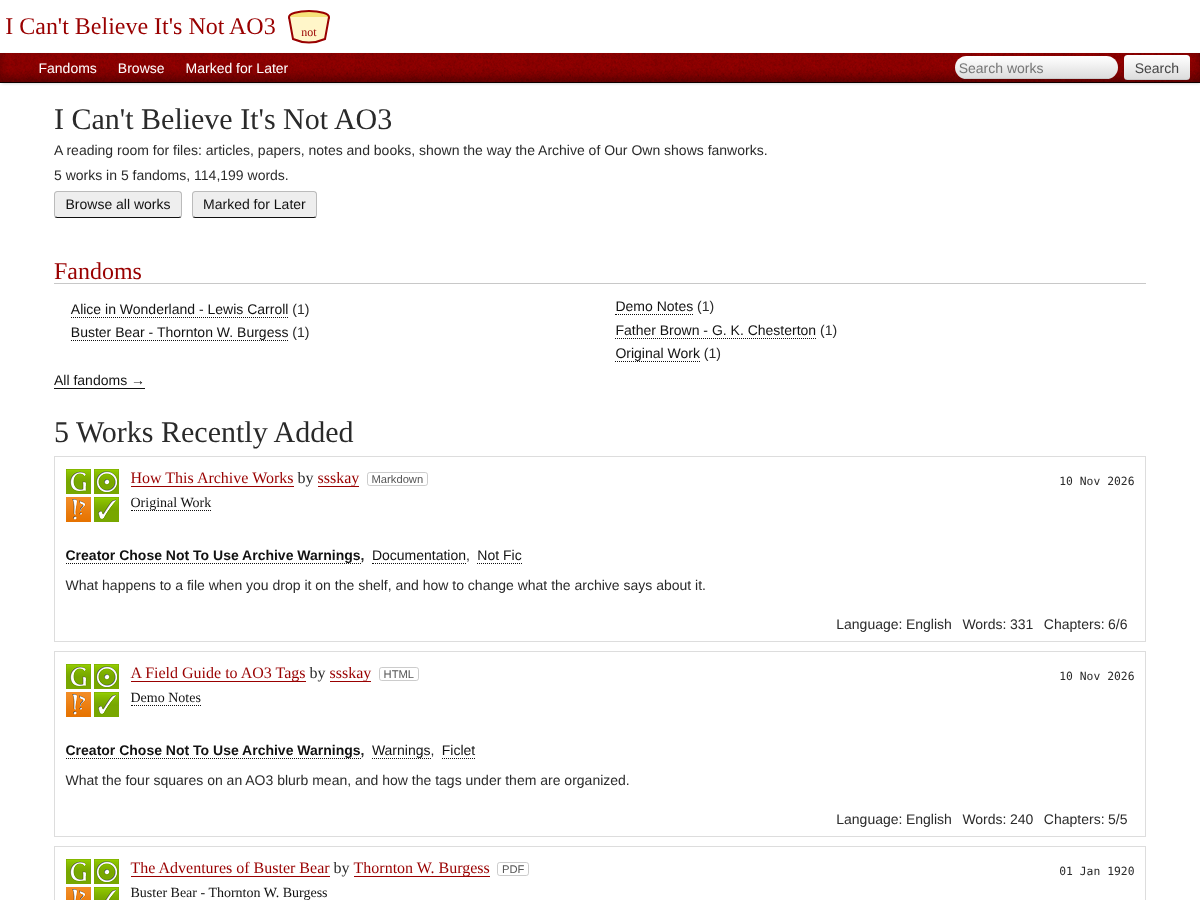
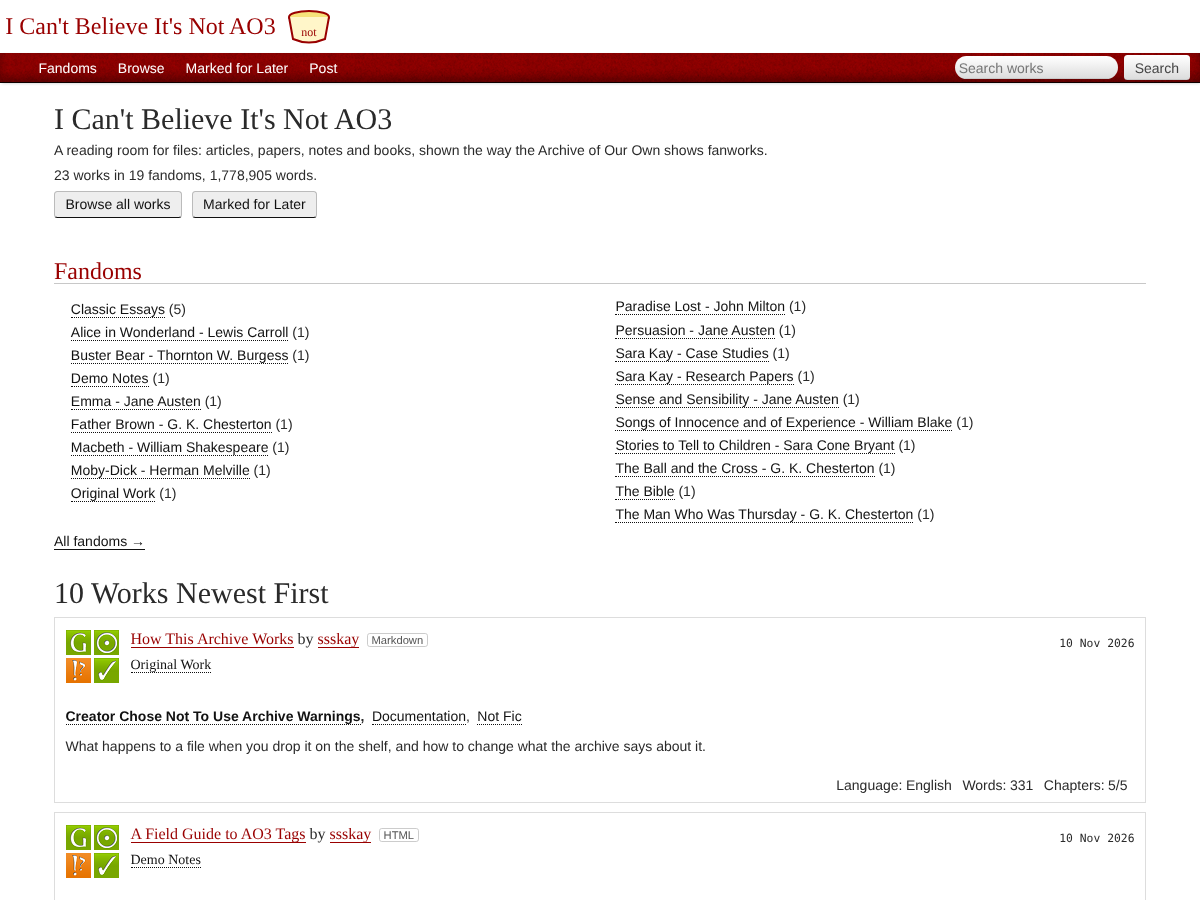
Screenshots: retake home and work pages, add browse page with the full demo shelf

diff --git a/README.md b/README.md
@@ -41,6 +41,8 @@ So this is for anyone with AO3 withdrawal. It puts everything else you read (art
 
 Saved web pages keep the article and lose the site's menus, scripts, forms and footer.
 
+![Browse page with the Bible, a case study, a paper, a PDF, a text file and an EPUB](docs/screenshot-browse.png)
+
 ## Use it
 
 You need Python 3 and two packages:
